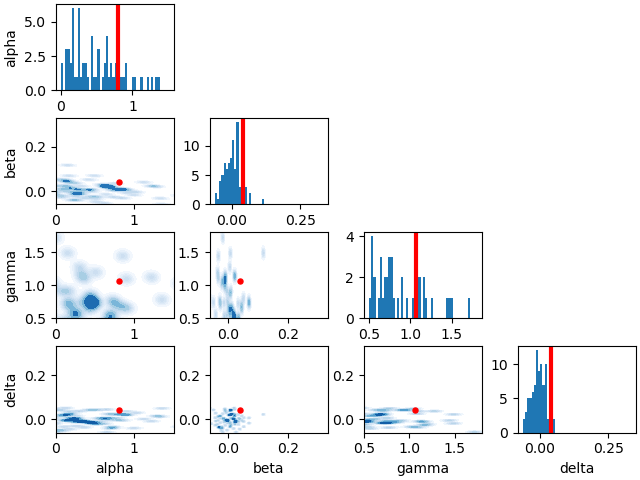
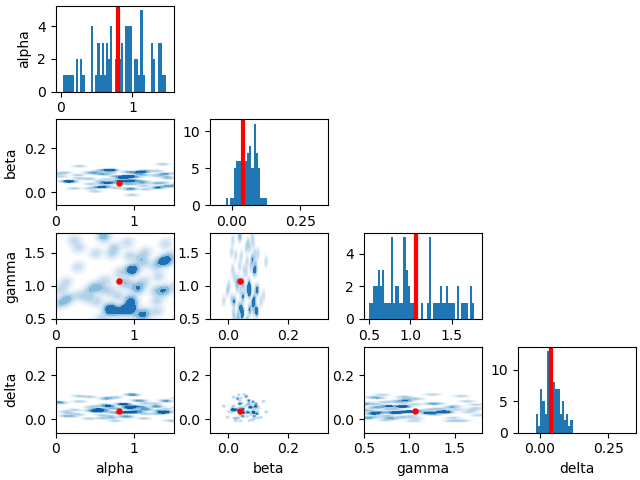
generic commit

diff --git a/scripts/transport/cflow_transport.py b/scripts/transport/cflow_transport.py
@@ -588,26 +588,26 @@ def vl_exp(N=10000, n_iter=10000, Yd=18, normal=True, exp_name='vl_exp'):
                                                          exp_name=exp_name, process_funcs=[],
                                                          cond_model_trainer=comp_cond_kernel_transport,
                                                          idx_dict=idx_dict, skip_idx=skip_idx, plot_idx=[],
-                                                         plt_range=None, n_transports=60)
+                                                         plt_range=None, n_transports=25)
 
     N_test = N #min(10 * N, 15000)
     slice_val = np.asarray([.8, .041, 1.07, .04])
 
     X = np.full((N_test, 4), slice_val)
-    ref_slice_sample = get_VL_data(N_test, X=X, Yd=Yd, normal=normal)
+    ref_slice_sample = get_VL_data(10 * N_test, X=X, Yd=Yd, normal=normal)
     ref_sample = ref_gen(N_test)
 
     slice_sample = compositional_gen(trained_models, ref_sample, ref_slice_sample, idx_dict)
-    slice_sample[:,:4] += X_mean
     slice_sample[:, :4] *= X_std
-
+    slice_sample[:,:4] += X_mean
 
     params_keys = ['alpha', 'beta', 'gamma', 'delta']
 
     ranges1 = {'alpha': [0,1.5], 'beta': [-.06,.33], 'gamma':[.5,1.8], 'delta':[-.06,.33]}
     ranges2 = {'alpha': [.5,1.4], 'beta': [0.02,0.07], 'gamma':[.5,1.5], 'delta':[0.025,0.065]}
+    ranges3 = {'alpha': [None, None], 'beta': [None, None], 'gamma': [None, None], 'delta': [None, None]}
 
-    for range_idx,ranges in enumerate([ranges1, ranges2]):
+    for range_idx,ranges in enumerate([ranges1, ranges2, ranges3]):
         for i, key_i in enumerate(params_keys):
             for j, key_j in enumerate(params_keys):
                 if i <= j:
@@ -622,12 +622,15 @@ def vl_exp(N=10000, n_iter=10000, Yd=18, normal=True, exp_name='vl_exp'):
                         plt_range = [ranges[key_i], ranges[key_j]]
                         kdeplot(x=x, y=y, fill=True, bw_adjust=0.25, cmap='Blues')
                         plt.scatter(x=slice_val[i], y=slice_val[j], s=13, color='red')
-                        plt.xlim(plt_range[0][0], plt_range[0][1])
-                        plt.ylim(plt_range[1][0], plt_range[1][1])
+                        if plt_range[0][0]!= None:
+                            plt.xlim(plt_range[0][0], plt_range[0][1])
+                            plt.ylim(plt_range[1][0], plt_range[1][1])
 
                     else:
                         x = slice_sample[:, i]
                         plt_range = ranges[key_i]
+                        if plt_range[0] == None:
+                            plt_range = None
                         plt.hist(x, bins=50, range = plt_range)
                         plt.axvline(slice_val[i], color='red', linewidth=3)
 
@@ -639,7 +642,7 @@ def vl_exp(N=10000, n_iter=10000, Yd=18, normal=True, exp_name='vl_exp'):
 
 
 def run():
-    vl_exp(9000, 101, exp_name = 'vl_exp3')
+    vl_exp(90, 101, exp_name = 'vl_exp3')
 
 if __name__=='__main__':
     run()
